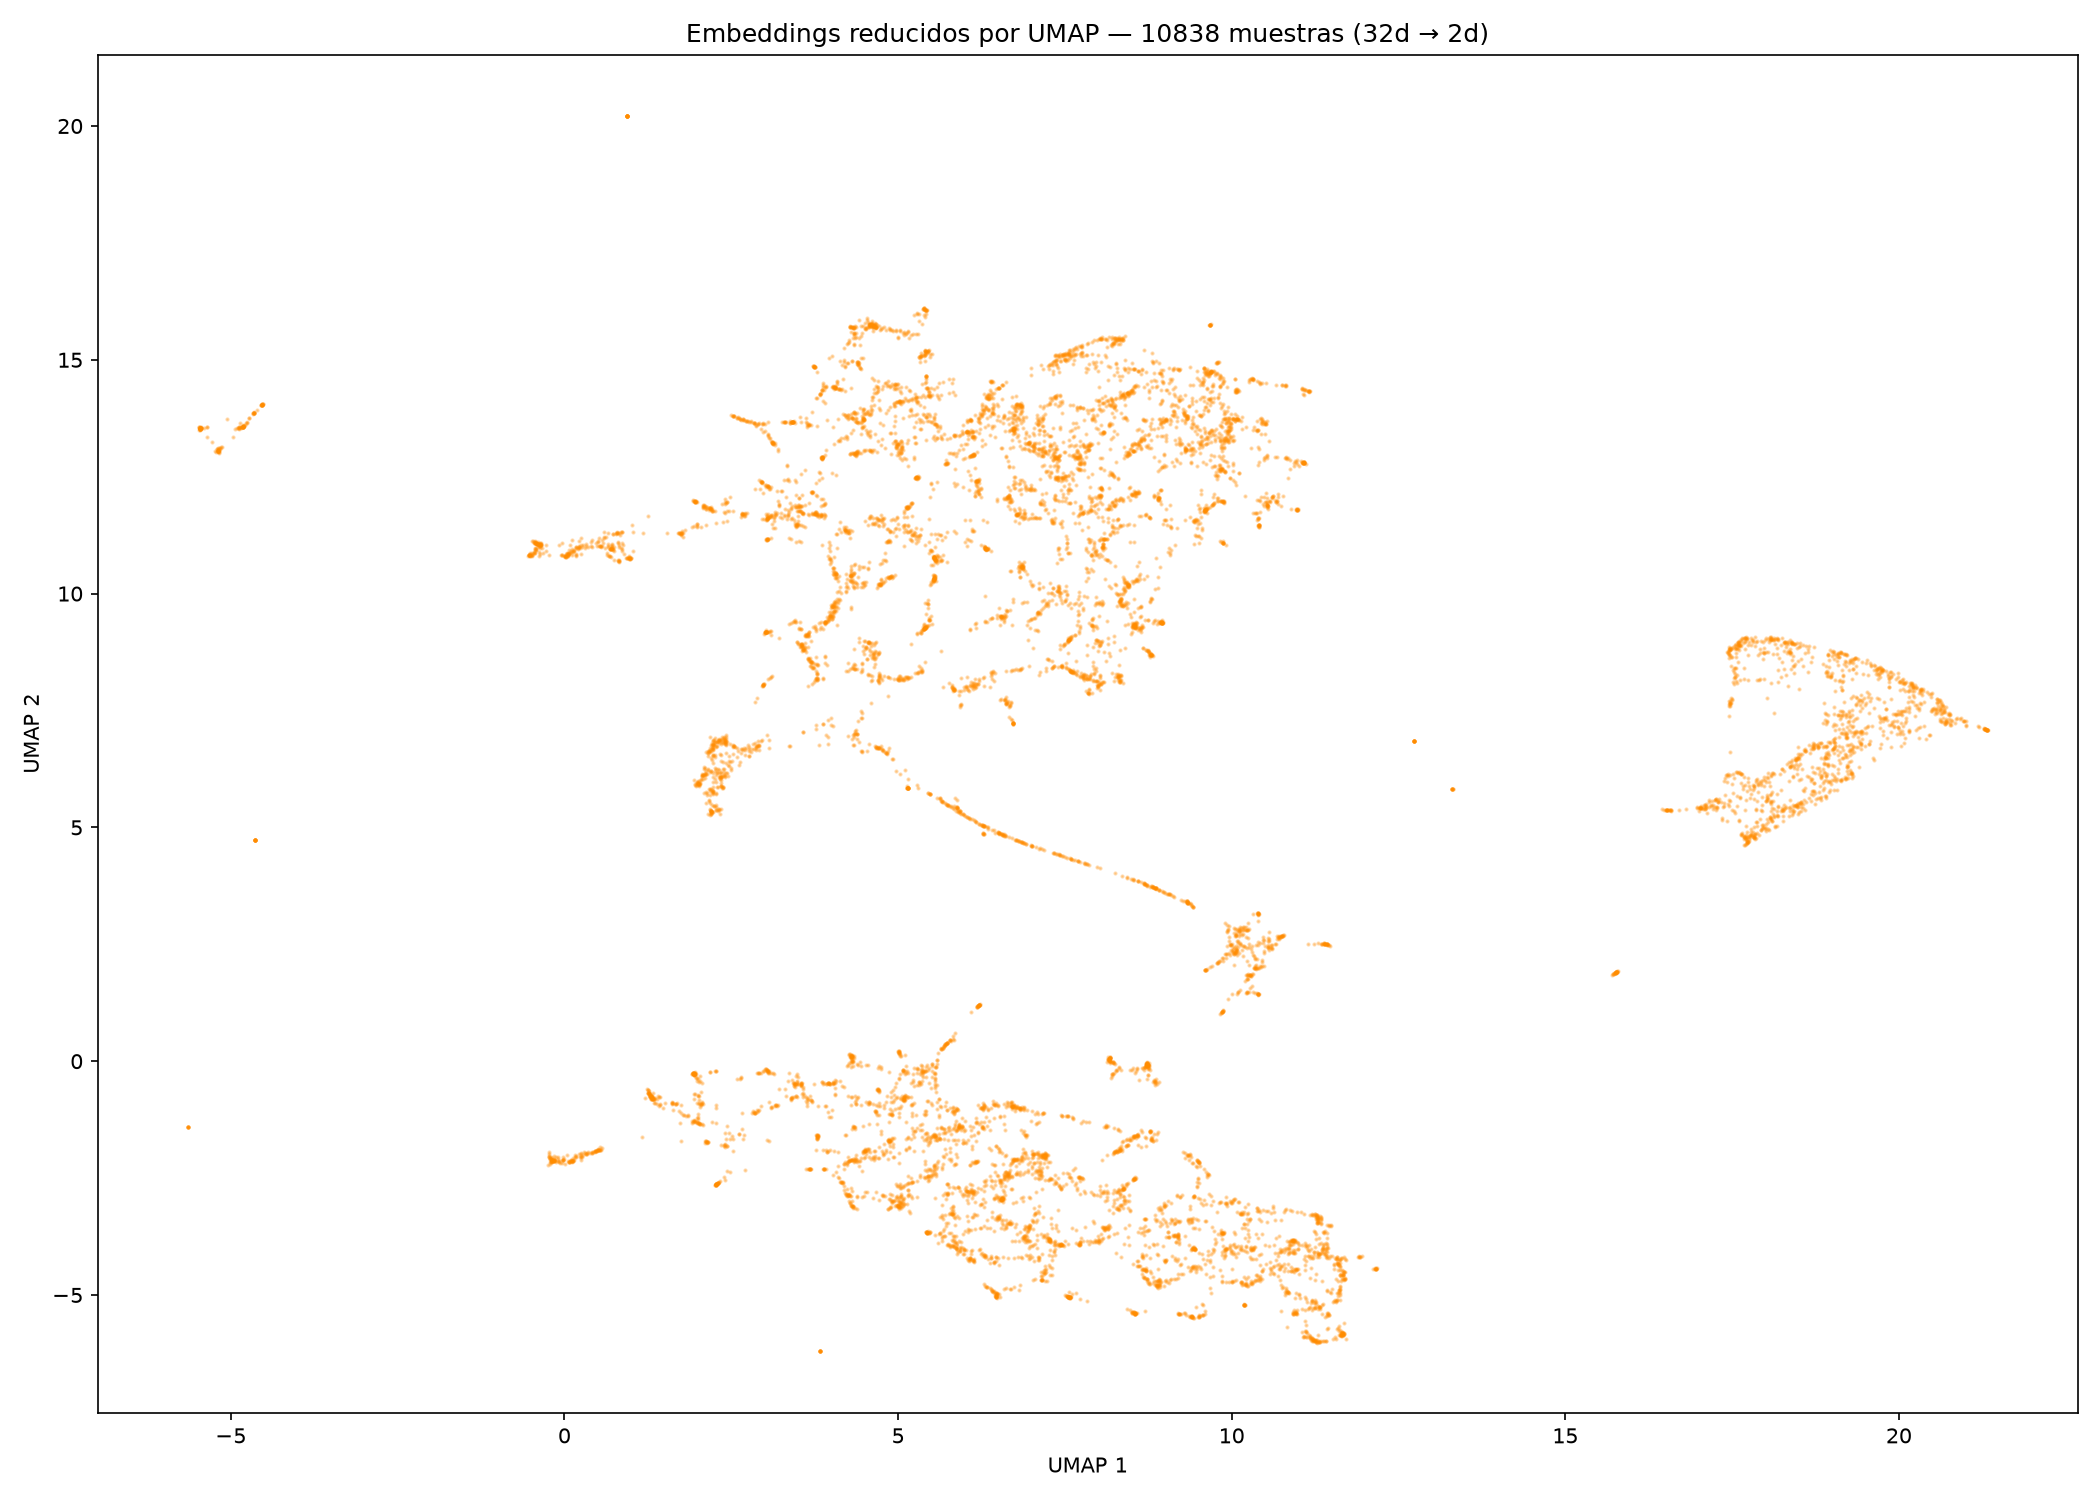
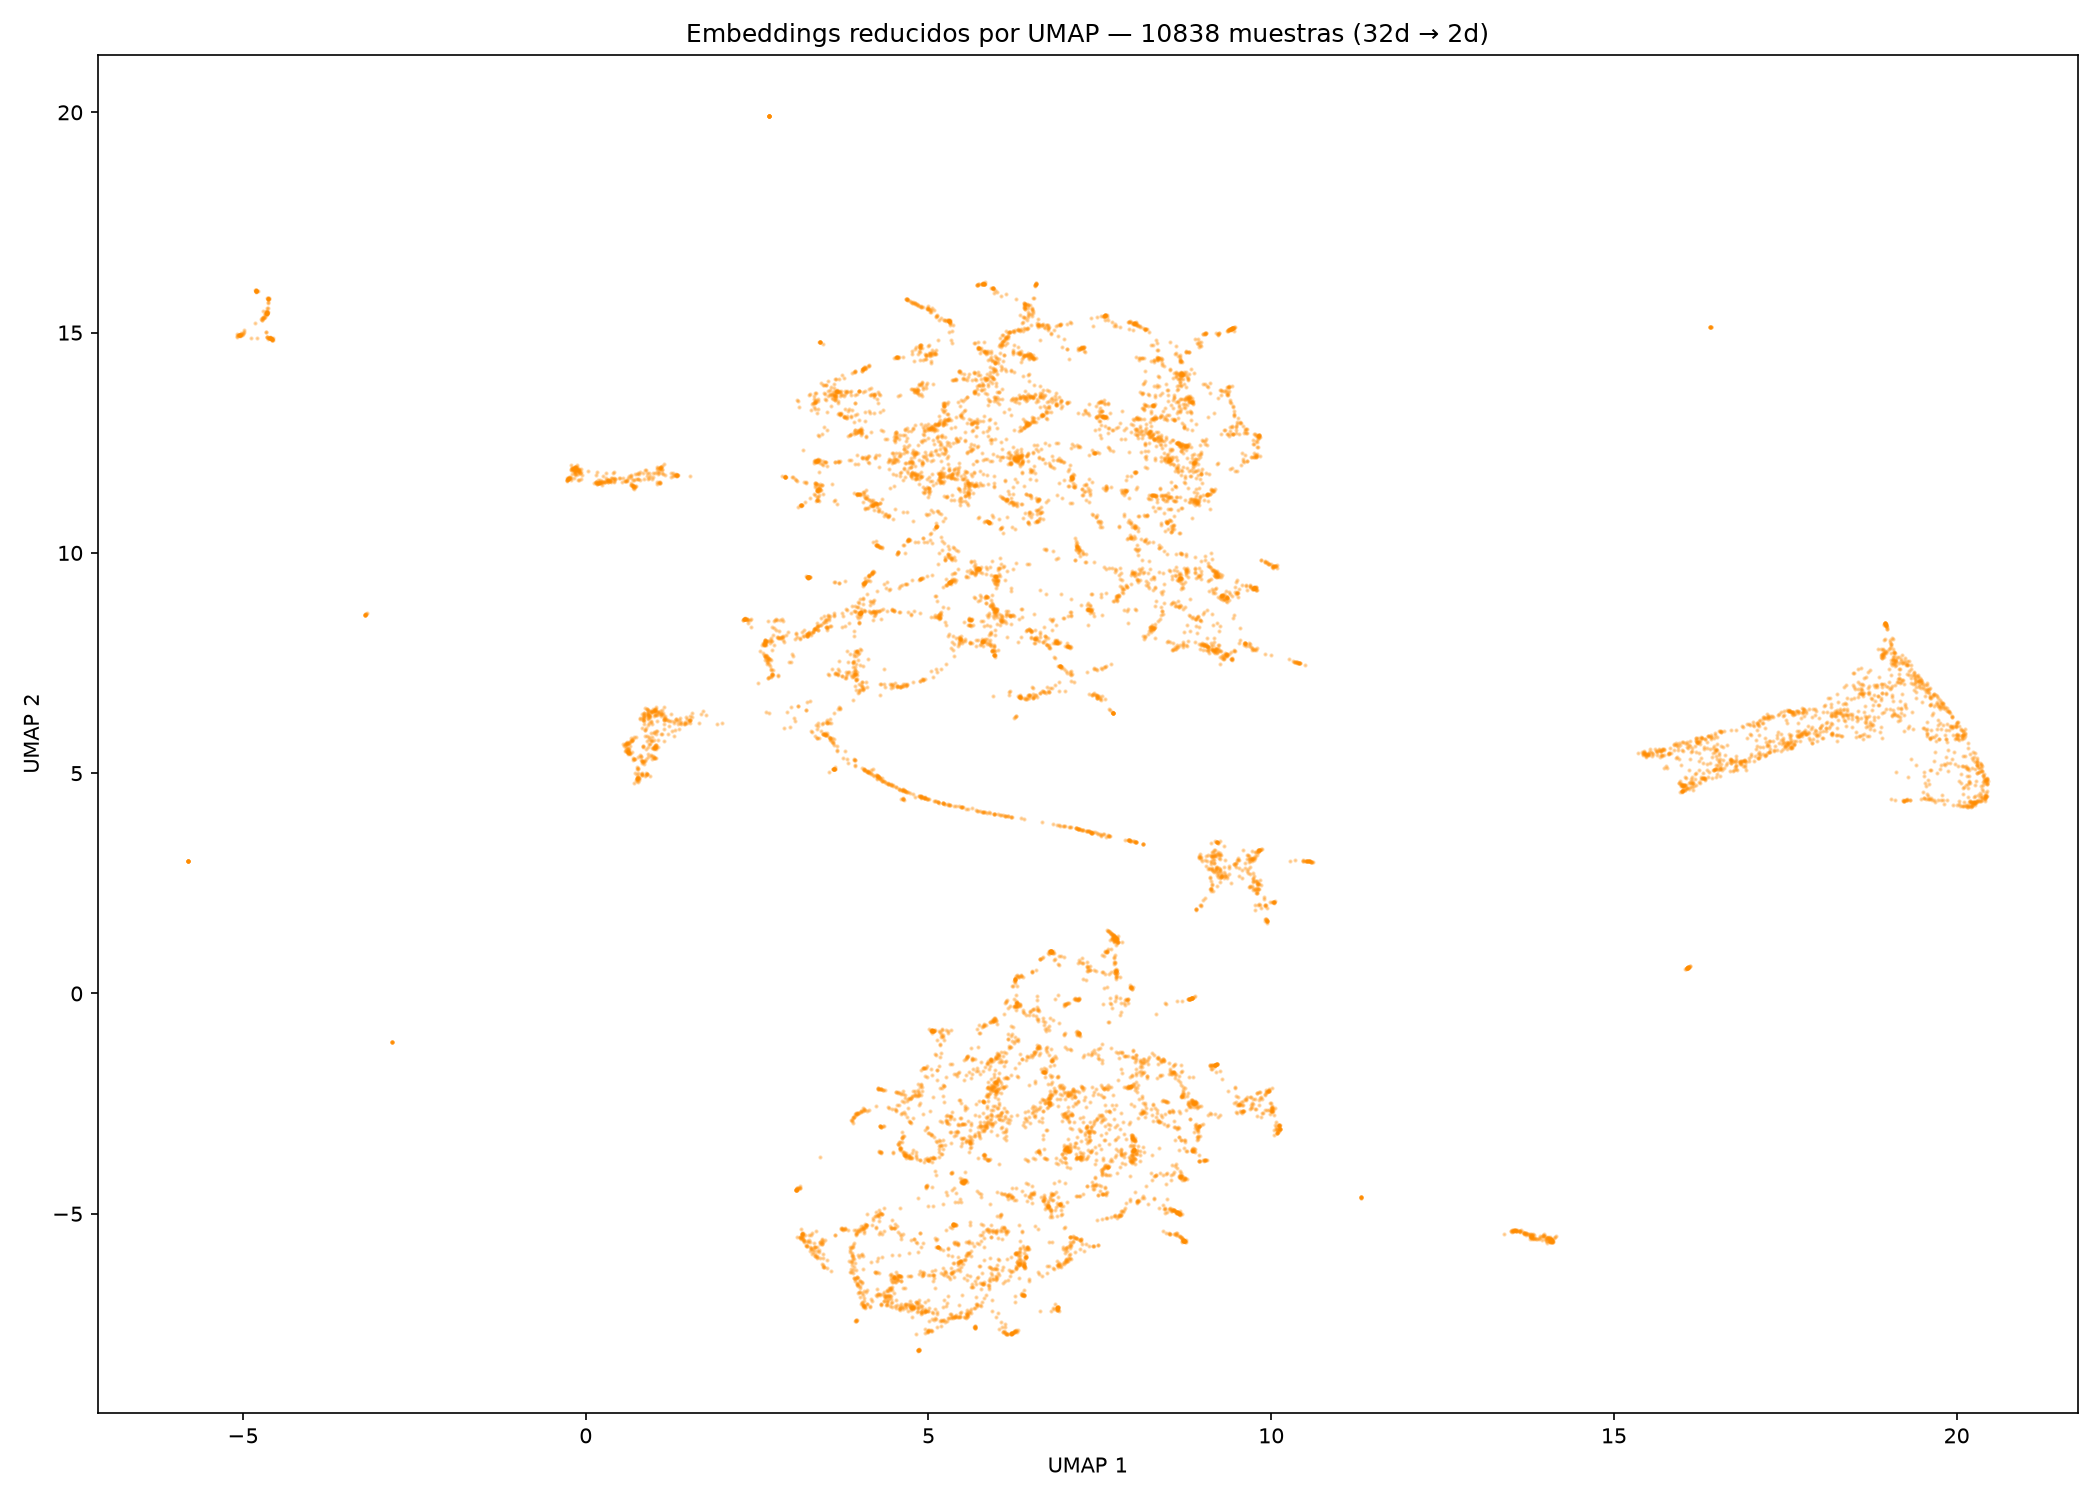
Modulo no supervisado funcional v3 sin el detector de anomalias

diff --git a/src/database/face_repository.py b/src/database/face_repository.py
@@ -54,7 +54,7 @@ def save_face_embedding(
 def match_face_embedding(
     embedding: list[float],
     match_count: int = 5,
-    threshold: float = 0.40,
+    threshold: float = 0.50,
 ) -> dict[str, Any]:
     """
     Searches for the closest face embedding in Supabase.
@@ -95,7 +95,7 @@ def match_face_embedding_by_cluster(
     embedding: list[float],
     cluster_id: int,
     match_count: int = 5,
-    threshold: float = 0.40,
+    threshold: float = 0.50,
 ) -> dict[str, Any]:
 
     if len(embedding) != 512:
@@ -195,23 +195,21 @@ def get_embeddings_registered():
     return all_embeddings if all_embeddings else None
 
 def save_clusters(cluster_map: dict):
-    BATCH_SIZE = 500  # 10,838 registros → 22 llamadas HTTP total
+    BATCH_SIZE = 500
     items = list(cluster_map.items())
     total = len(items)
 
-    print(f"Guardando {total} clusters en {ceil(total / BATCH_SIZE)} lotes...")
+    print(f"Guardando {total} clusters en {(total / BATCH_SIZE)} lotes...")
 
     for i in range(0, total, BATCH_SIZE):
         batch = items[i:i + BATCH_SIZE]
 
-        rows = [
-            {"id": embedding_id, "cluster_id": cluster_id}
-            for embedding_id, cluster_id in batch
+        payload = [
+            {"id": eid, "cluster_id": cid}
+            for eid, cid in batch
         ]
 
-        supabase.table("face_embeddings") \
-            .upsert(rows, on_conflict="id") \
-            .execute()
+        supabase.rpc("bulk_update_clusters", {"payload": payload}).execute()
 
         print(f"Progreso: {min(i + BATCH_SIZE, total)}/{total}")
 

diff --git a/src/utils/constants.py b/src/utils/constants.py
@@ -7,7 +7,7 @@ HYBRID = 'hybrid'
 STANDARD = 'standard'
 
 # Filtro de calidad
-MIN_CONFIDENCE = 0.4
+MIN_CONFIDENCE = 0.5
 MIN_SHARPNESS = 30.0
 
 